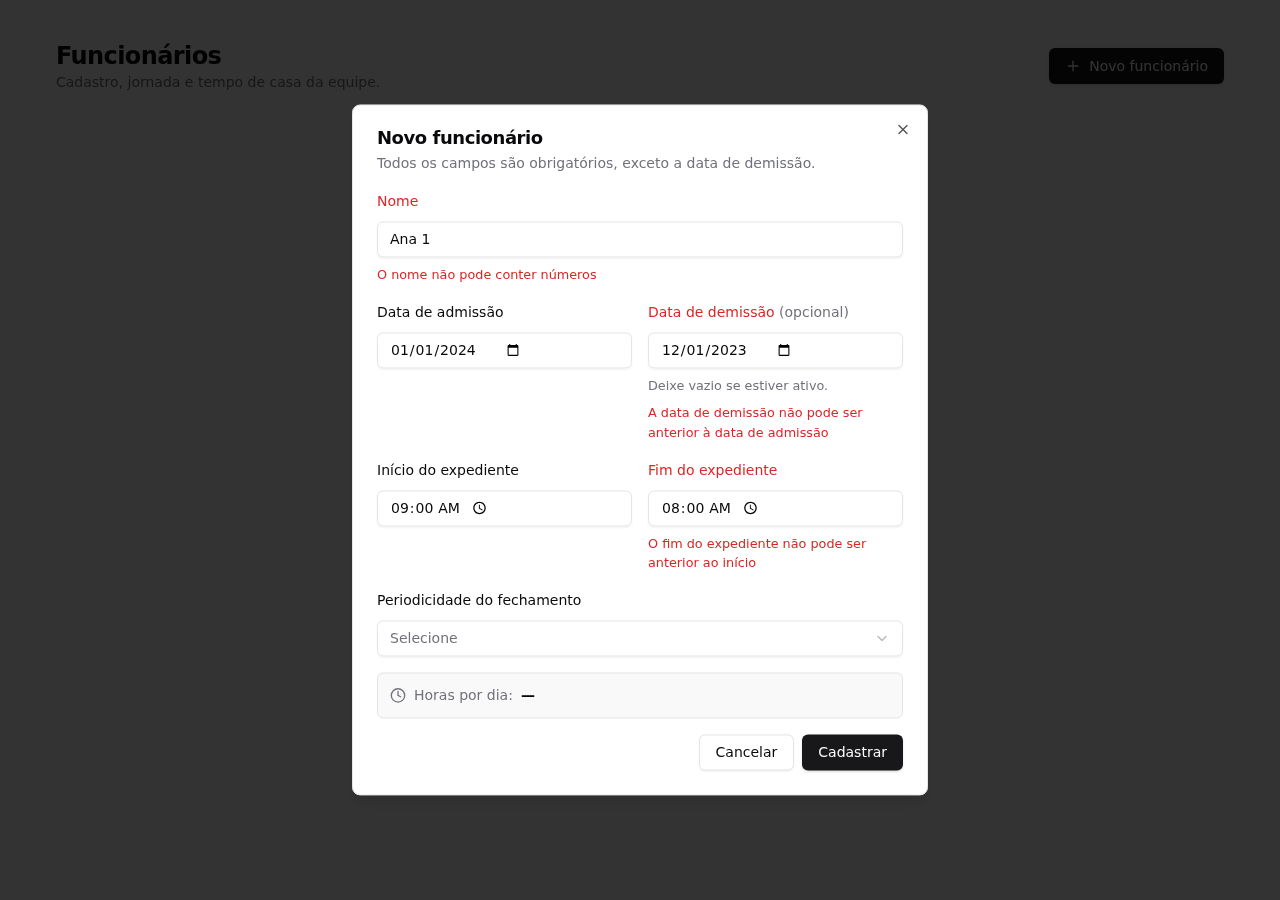
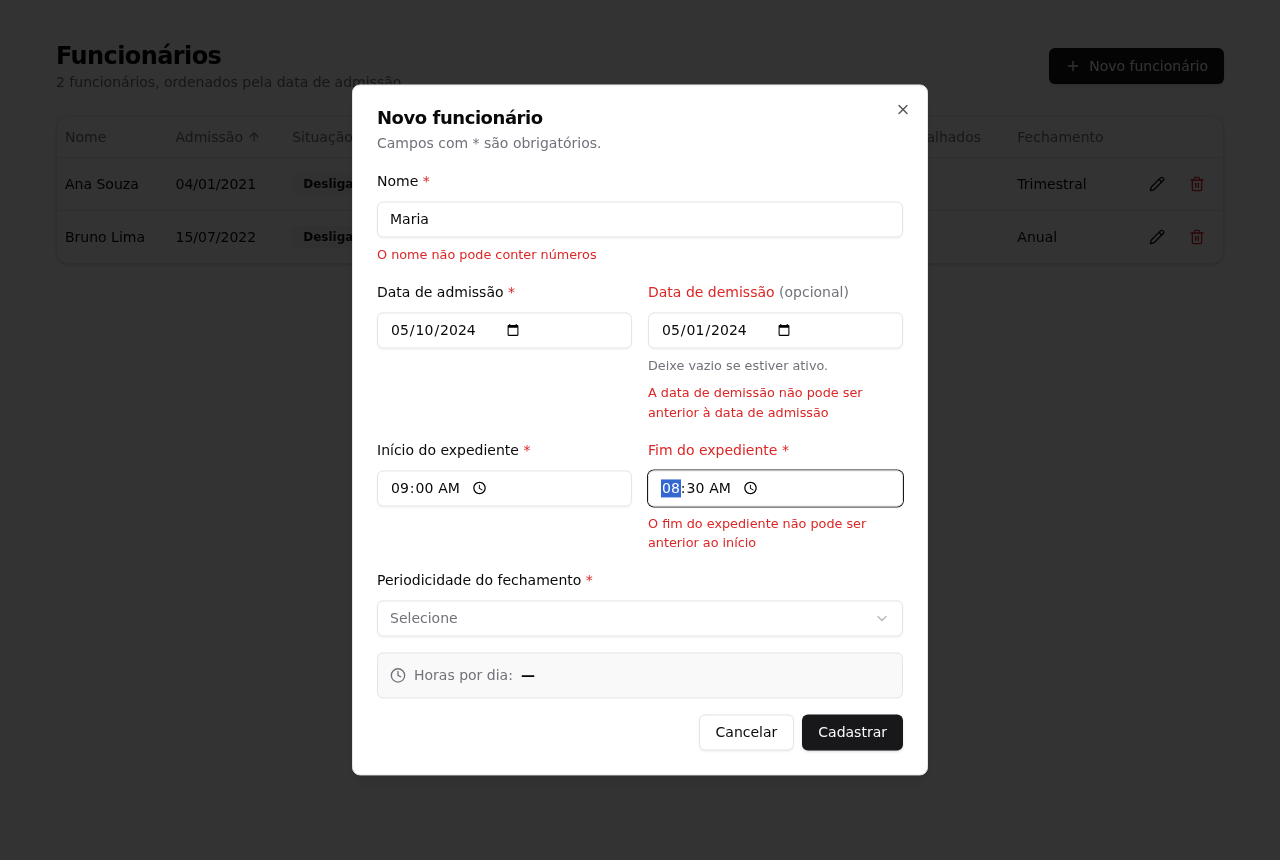
feat(web): aplica todas as regras de validação em tempo real na interface
- campo nome bloqueia números na digitação e ao colar, com aviso imediato
- validação a cada alteração (mode 'all'), sem depender do envio
- seletores limitam demissão à data de admissão e fim ao início do expediente
- campos obrigatórios marcados com asterisco
- detecção de dígitos Unicode alinhada com a API
- testes cobrindo erros imediatos e limites dos seletores

diff --git a/apps/web/src/components/employees/employee-form.tsx b/apps/web/src/components/employees/employee-form.tsx
@@ -1,7 +1,7 @@
 'use client'
 
 import { zodResolver } from '@hookform/resolvers/zod'
-import type { ReactNode } from 'react'
+import { type ReactNode, useState } from 'react'
 import { useForm } from 'react-hook-form'
 
 import {
@@ -26,10 +26,20 @@ import {
   employeeFormSchema,
   type EmployeeFormValues,
   emptyEmployeeForm,
+  NAME_DIGITS_MESSAGE,
+  stripDigits,
 } from '@/lib/employees/schema'
 import { CLOSING_PERIODICITIES } from '@/lib/employees/types'
 
 import { EmployeeCalculations } from './employee-calculations'
+
+function RequiredMark() {
+  return (
+    <span className="text-destructive" aria-hidden>
+      *
+    </span>
+  )
+}
 
 interface EmployeeFormProps {
   id: string
@@ -48,12 +58,18 @@ export function EmployeeForm({
   const form = useForm<EmployeeFormInput, unknown, EmployeeFormValues>({
     resolver: zodResolver(employeeFormSchema),
     defaultValues,
-    mode: 'onTouched',
+    // Valida a cada alteração e ao sair do campo: os erros aparecem na hora.
+    mode: 'all',
   })
+  const [blockedDigit, setBlockedDigit] = useState(false)
+  const [admissionDate, workStartTime] = form.watch([
+    'admissionDate',
+    'workStartTime',
+  ])
 
-  // Regras cruzadas: ao mudar um lado, revalida o outro se ele já foi tocado.
+  // Regras cruzadas: ao mudar um lado, revalida o outro se ele já tem valor.
   const revalidate = (field: keyof EmployeeFormInput) => {
-    if (form.formState.touchedFields[field]) form.trigger(field)
+    if (form.getValues(field)) form.trigger(field)
   }
 
   return (
@@ -69,11 +85,29 @@ export function EmployeeForm({
           name="name"
           render={({ field }) => (
             <FormItem>
-              <FormLabel>Nome</FormLabel>
+              <FormLabel>
+                Nome <RequiredMark />
+              </FormLabel>
               <FormControl>
-                <Input placeholder="Ex.: Maria da Silva" {...field} />
+                <Input
+                  placeholder="Ex.: Maria da Silva"
+                  {...field}
+                  onChange={(event) => {
+                    // Números são bloqueados na digitação/colagem e o motivo aparece na hora.
+                    const typed = event.target.value
+                    const clean = stripDigits(typed)
+                    setBlockedDigit(clean !== typed)
+                    field.onChange(clean)
+                  }}
+                />
               </FormControl>
-              <FormMessage />
+              {blockedDigit && !form.formState.errors.name ? (
+                <p className="text-[0.8rem] font-medium text-destructive">
+                  {NAME_DIGITS_MESSAGE}
+                </p>
+              ) : (
+                <FormMessage />
+              )}
             </FormItem>
           )}
         />
@@ -84,7 +118,9 @@ export function EmployeeForm({
             name="admissionDate"
             render={({ field }) => (
               <FormItem>
-                <FormLabel>Data de admissão</FormLabel>
+                <FormLabel>
+                  Data de admissão <RequiredMark />
+                </FormLabel>
                 <FormControl>
                   <Input
                     type="date"
@@ -112,7 +148,11 @@ export function EmployeeForm({
                   </span>
                 </FormLabel>
                 <FormControl>
-                  <Input type="date" {...field} />
+                  <Input
+                    type="date"
+                    min={admissionDate || undefined}
+                    {...field}
+                  />
                 </FormControl>
                 <FormDescription>Deixe vazio se estiver ativo.</FormDescription>
                 <FormMessage />
@@ -125,7 +165,9 @@ export function EmployeeForm({
             name="workStartTime"
             render={({ field }) => (
               <FormItem>
-                <FormLabel>Início do expediente</FormLabel>
+                <FormLabel>
+                  Início do expediente <RequiredMark />
+                </FormLabel>
                 <FormControl>
                   <Input
                     type="time"
@@ -146,9 +188,15 @@ export function EmployeeForm({
             name="workEndTime"
             render={({ field }) => (
               <FormItem>
-                <FormLabel>Fim do expediente</FormLabel>
+                <FormLabel>
+                  Fim do expediente <RequiredMark />
+                </FormLabel>
                 <FormControl>
-                  <Input type="time" {...field} />
+                  <Input
+                    type="time"
+                    min={workStartTime || undefined}
+                    {...field}
+                  />
                 </FormControl>
                 <FormMessage />
               </FormItem>
@@ -161,7 +209,9 @@ export function EmployeeForm({
           name="closingPeriodicity"
           render={({ field }) => (
             <FormItem>
-              <FormLabel>Periodicidade do fechamento</FormLabel>
+              <FormLabel>
+                Periodicidade do fechamento <RequiredMark />
+              </FormLabel>
               <Select
                 value={field.value || undefined}
                 onValueChange={field.onChange}

diff --git a/apps/web/src/components/employees/employee-form.test.tsx b/apps/web/src/components/employees/employee-form.test.tsx
@@ -43,17 +43,101 @@ describe('EmployeeForm', () => {
     expect(screen.getByTestId('worked-days')).toHaveTextContent('30 dias')
   })
 
+  it('blocks digits in the name while typing and explains why', async () => {
+    const { user } = setup()
+    const name = screen.getByLabelText(/^nome/i)
+
+    await user.clear(name)
+    await user.type(name, 'Maria 2')
+
+    expect(name).toHaveValue('Maria ')
+    expect(
+      screen.getByText('O nome não pode conter números'),
+    ).toBeInTheDocument()
+
+    await user.type(name, 'Silva')
+    expect(name).toHaveValue('Maria Silva')
+    expect(
+      screen.queryByText('O nome não pode conter números'),
+    ).not.toBeInTheDocument()
+  })
+
+  it('strips digits from pasted names', async () => {
+    const { user } = setup()
+    const name = screen.getByLabelText(/^nome/i)
+
+    await user.clear(name)
+    await user.click(name)
+    await user.paste('João 3º')
+
+    expect(name).toHaveValue('João º')
+  })
+
+  it('shows cross-field errors immediately, without submitting', async () => {
+    const { user } = setup()
+
+    await user.type(screen.getByLabelText(/data de demissão/i), '2023-12-31')
+    expect(
+      screen.getByText(
+        'A data de demissão não pode ser anterior à data de admissão',
+      ),
+    ).toBeInTheDocument()
+
+    const end = screen.getByLabelText(/fim do expediente/i)
+    await user.clear(end)
+    await user.type(end, '07:00')
+    expect(
+      screen.getByText('O fim do expediente não pode ser anterior ao início'),
+    ).toBeInTheDocument()
+  })
+
+  it('revalidates the other side when admission or start changes', async () => {
+    const { user } = setup()
+
+    await user.type(screen.getByLabelText(/data de demissão/i), '2024-01-31')
+    const admission = screen.getByLabelText(/data de admissão/i)
+    await user.clear(admission)
+    await user.type(admission, '2024-02-15')
+
+    expect(
+      screen.getByText(
+        'A data de demissão não pode ser anterior à data de admissão',
+      ),
+    ).toBeInTheDocument()
+  })
+
+  it('limits the pickers to valid ranges', () => {
+    setup()
+
+    expect(screen.getByLabelText(/data de demissão/i)).toHaveAttribute(
+      'min',
+      '2024-01-01',
+    )
+    expect(screen.getByLabelText(/fim do expediente/i)).toHaveAttribute(
+      'min',
+      '08:00',
+    )
+  })
+
+  it('shows the required message as soon as a required field is cleared', async () => {
+    const { user } = setup()
+
+    await user.clear(screen.getByLabelText(/^nome/i))
+
+    expect(screen.getByText('O nome é obrigatório')).toBeInTheDocument()
+  })
+
   it('shows inline errors and does not submit invalid data', async () => {
     const { user, onSubmit } = setup()
 
-    await user.clear(screen.getByLabelText('Nome'))
-    await user.type(screen.getByLabelText('Nome'), 'Maria 2')
+    await user.clear(screen.getByLabelText(/^nome/i))
+    await user.type(screen.getByLabelText(/^nome/i), 'Maria@')
     await user.clear(screen.getByLabelText(/fim do expediente/i))
     await user.type(screen.getByLabelText(/fim do expediente/i), '07:00')
     await user.click(screen.getByRole('button', { name: 'Salvar' }))
 
     expect(
-      await screen.findByText('O nome não pode conter números'),
+      await screen.findByText('O nome deve conter apenas letras'),
     ).toBeInTheDocument()
     expect(
       screen.getByText('O fim do expediente não pode ser anterior ao início'),

diff --git a/apps/web/src/lib/employees/schema.ts b/apps/web/src/lib/employees/schema.ts
@@ -6,6 +6,15 @@ import { CLOSING_PERIODICITIES, EmployeeInput } from './types'
 /** Mesmo critério da API: letras (inclusive acentuadas), espaços, `'`, `.` e `-`. */
 const NAME_PATTERN = /^[\p{L}\s'.-]+$/u
 
+export const NAME_DIGITS_MESSAGE = 'O nome não pode conter números'
+
+/** Qualquer dígito Unicode (0-9, ², ١...), o mesmo que a API recusa. */
+const DIGIT_PATTERN = /\p{N}/gu
+
+export function stripDigits(value: string) {
+  return value.replace(DIGIT_PATTERN, '')
+}
+
 /** Uma mensagem por campo: vazio → obrigatório; preenchido → formato. */
 const calendarDate = (label: string, { optional = false } = {}) =>
   z.string().superRefine((value, ctx) => {

diff --git a/apps/web/src/lib/employees/schema.test.ts b/apps/web/src/lib/employees/schema.test.ts
@@ -39,8 +39,10 @@ describe('employeeFormSchema', () => {
     ])
   })
 
-  it('rejects names with digits', () => {
+  it('rejects names with any kind of digit', () => {
     expect(errorPaths({ ...valid, name: 'Ana 2' })).toEqual(['name'])
+    expect(errorPaths({ ...valid, name: 'Ana²' })).toEqual(['name'])
+    expect(errorPaths({ ...valid, name: 'Ana١' })).toEqual(['name'])
   })
 
   it('rejects dismissal before admission on the dismissal field', () => {

diff --git a/apps/web/src/components/employees/employee-form-dialog.tsx b/apps/web/src/components/employees/employee-form-dialog.tsx
@@ -72,7 +72,7 @@ export function EmployeeFormDialog({
               {isEdit ? 'Editar funcionário' : 'Novo funcionário'}
             </DialogTitle>
             <DialogDescription>
-              Todos os campos são obrigatórios, exceto a data de demissão.
+              Campos com * são obrigatórios.
             </DialogDescription>
           </DialogHeader>
 

diff --git a/README.md b/README.md
@@ -116,7 +116,7 @@ Todos os requisitos da especificação estão implementados e cobertos por teste
 
 | Requisito | Onde é garantido |
 |---|---|
-| Nome obrigatório e sem números | `NAME_PATTERN` no schema Mongoose, `CreateEmployeeDto` e `employeeFormSchema` (Zod) |
+| Nome obrigatório e sem números | `NAME_PATTERN` no schema Mongoose, `CreateEmployeeDto` e `employeeFormSchema` (Zod). Na interface, números são bloqueados já na digitação |
 | Data de demissão opcional e não anterior à admissão | Hook `pre('validate')` do schema, `@IsNotBefore` no DTO e regra cruzada no Zod |
 | Expediente `HH:mm`; fim não anterior ao início | `TIME_PATTERN` + mesmas três camadas acima |
 | Periodicidade restrita a Mensal/Bimestral/Trimestral/Semestral/Anual | Enum `ClosingPeriodicity` (schema e DTO) e `CLOSING_PERIODICITIES` (select do formulário e Zod) |
@@ -125,7 +125,7 @@ Todos os requisitos da especificação estão implementados e cobertos por teste
 | Modal de confirmação ao criar, editar e excluir, com resumo dos dados | `ConfirmDialog` (AlertDialog do shadcn/ui) + `EmployeeSummary`. Na edição, os campos alterados aparecem em destaque |
 | Listagem por admissão (mais antiga primeiro) e estado vazio | `EmployeesService.findAll` (`sort` por `admissionDate`), `EmployeesTable` e `EmployeesEmptyState` |
 
-As regras ficam em três camadas (formulário, DTO e schema). Assim, uma chamada direta à API, sem passar pelo front, também não grava dados inválidos.
+As regras ficam em três camadas (formulário, DTO e schema). Na interface, cada regra é validada enquanto o usuário preenche, sem esperar o envio: o nome não aceita números, os seletores de data e hora limitam a demissão à admissão e o fim ao início, e os obrigatórios são marcados com `*`. Uma chamada direta à API, sem passar pelo front, também não grava dados inválidos.
 
 ### 2. Backend: NestJS sobre Node.js, Express e MongoDB
 

diff --git a/CLAUDE.md b/CLAUDE.md
@@ -55,7 +55,7 @@ Monorepo npm workspaces: `apps/api` (NestJS 10 + Mongoose 8) e `apps/web` (Next.
 ## Web — componentes (`apps/web/src/components/employees/`)
 - `ui/` = shadcn/ui (new-york, zinc) gerado pela CLI: `npx shadcn@2.3.0 add <nome>` (versão 2.x = Tailwind 3). Não editar à mão, salvo `sonner.tsx` (sem next-themes).
 - Fluxo de salvar: `EmployeeFormDialog` (Dialog com `EmployeeForm`) → submit válido guarda o payload → `ConfirmDialog` (AlertDialog) com `EmployeeSummary` → `useSaveEmployee` → toast (sonner).
-- `EmployeeForm`: react-hook-form + `zodResolver(employeeFormSchema)`, `mode: 'onTouched'`, erros inline via `FormMessage`; mudar admissão/início revalida demissão/fim. Inputs nativos `type="date"`/`type="time"`; periodicidade com shadcn Select.
+- `EmployeeForm`: react-hook-form + `zodResolver(employeeFormSchema)`, `mode: 'all'` (erros na hora, sem precisar enviar); mudar admissão/início revalida demissão/fim. Toda regra de validação tem que aparecer na interface: nome bloqueia dígitos (`stripDigits`) com aviso, `min` nos inputs de demissão (= admissão) e fim (= início), `*` nos obrigatórios. Inputs nativos `type="date"`/`type="time"`; periodicidade com shadcn Select.
 - `EmployeeCalculations`: `useWatch` + funções de `calculations.ts` (dias só aparecem com demissão válida).
 - `EmployeeSummary`: resumo para os modais; com `previous`, destaca o que mudou (edição).
 - `ConfirmDialog`: genérico (`destructive` para exclusão); não fecha durante a requisição.
